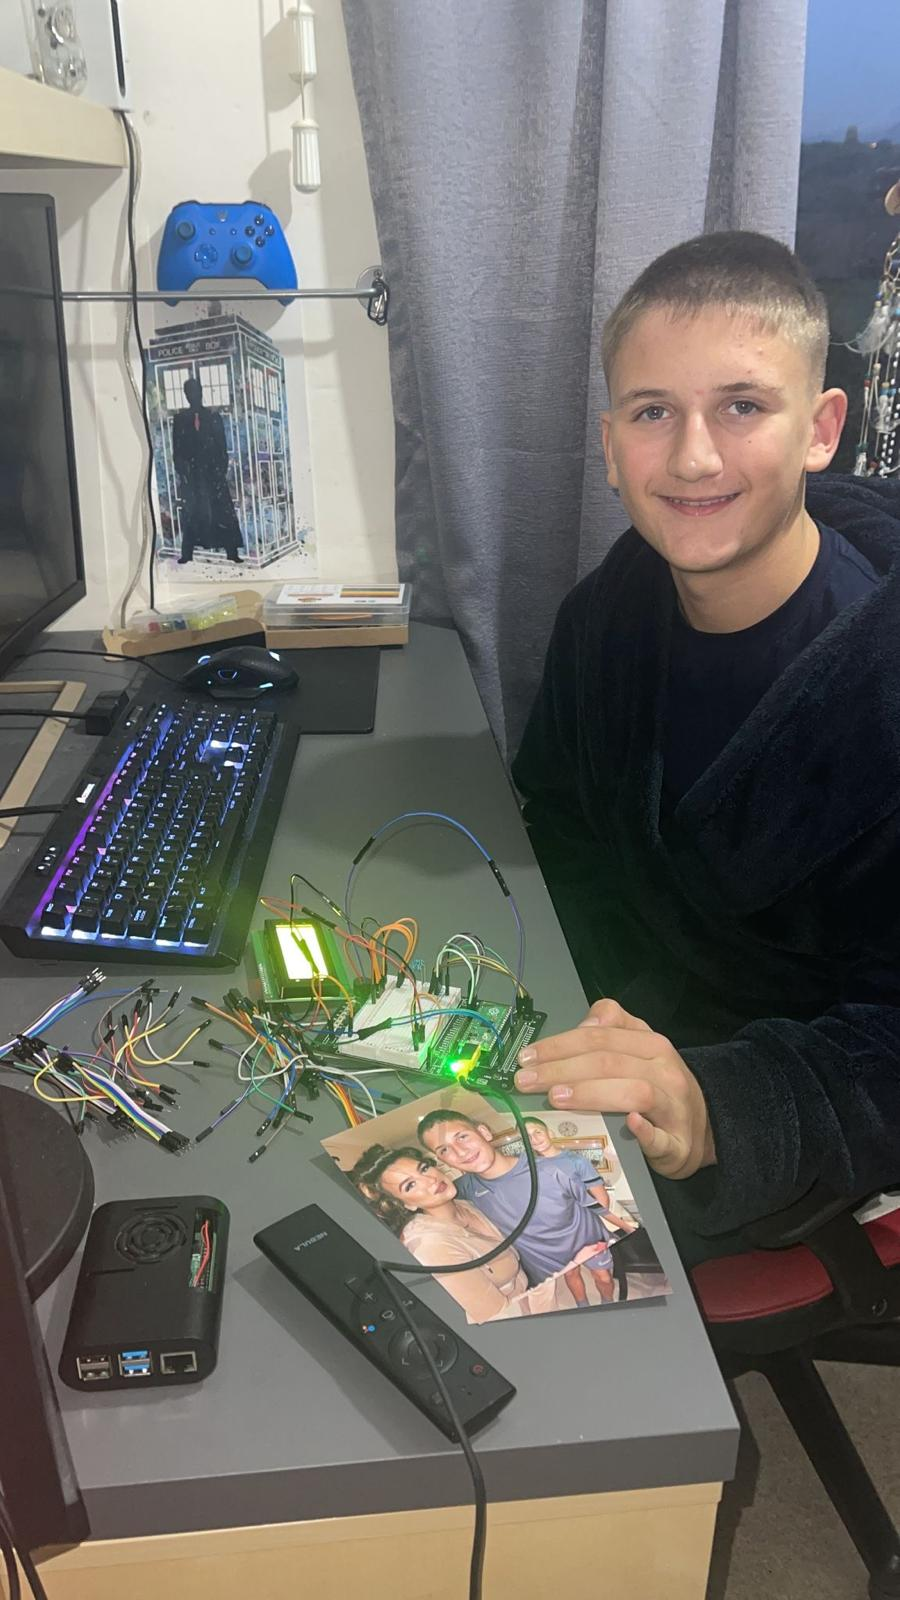
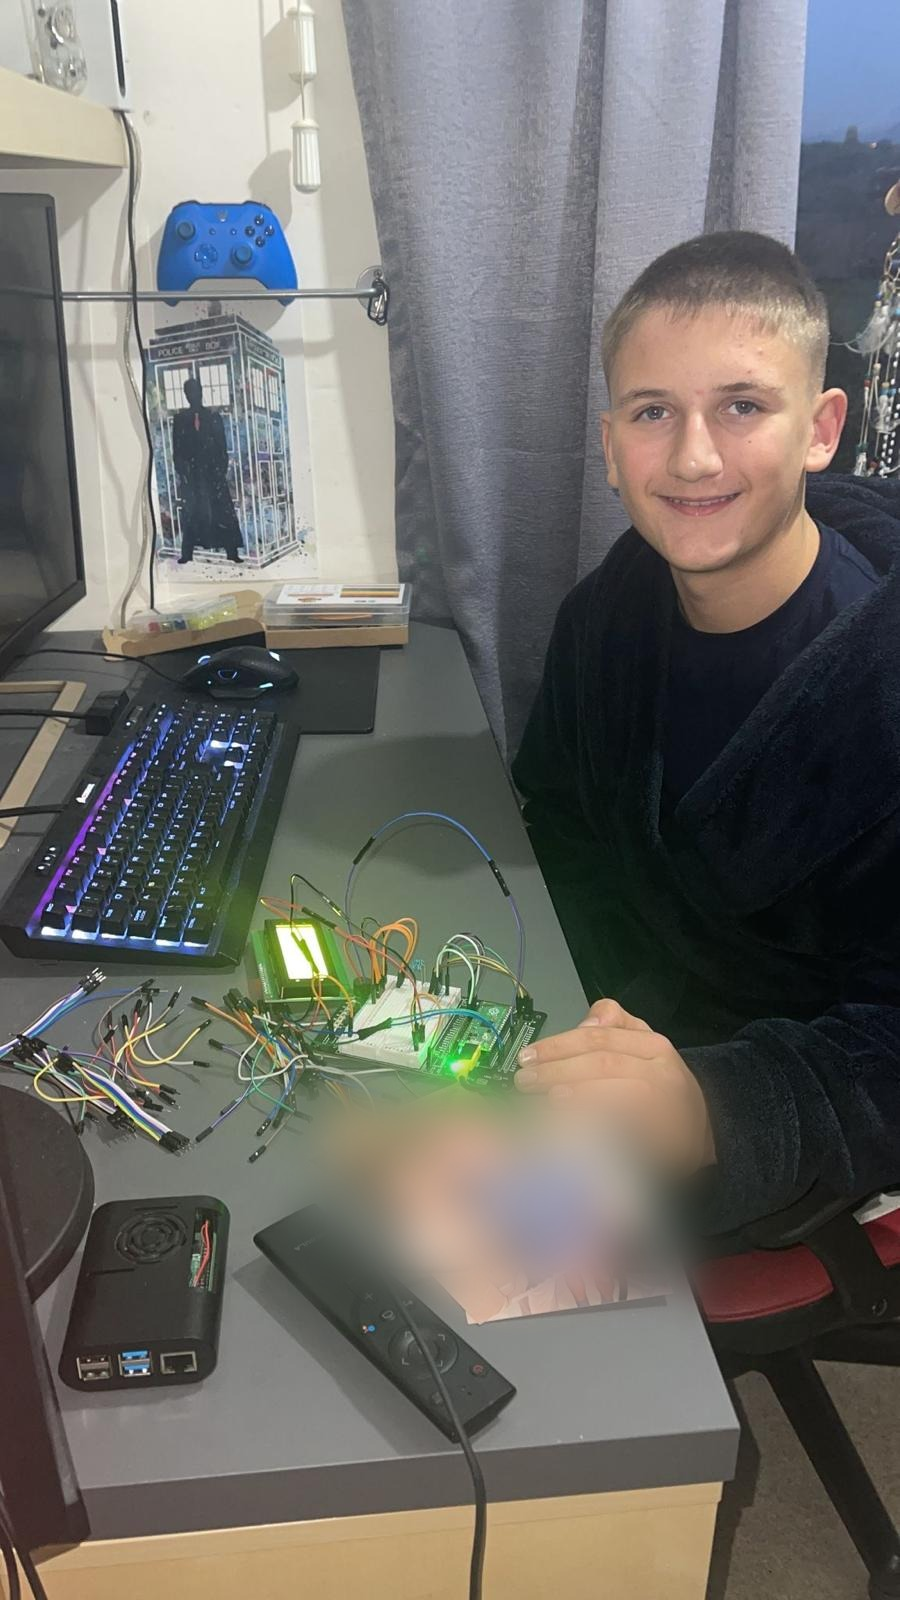
Blur family photo in Roboscan shot, rewrite PC Building description
The third Roboscan photo had a printed photo of me and my sister on
the desk - applied a soft feathered blur over it so it's not legible
but the shot isn't disrupted otherwise.

Also rewrote the PC Building side-project description to be about
locating and repairing faulty parts and upgrading with fresh internals,
and updated the matching Slovak translation to stay in sync.

Changed region(s): [[0.3422, 0.6562, 0.8089, 0.8438]]

diff --git a/src/i18n/sk.ts b/src/i18n/sk.ts
@@ -135,7 +135,7 @@ export const sk = {
       'pc-building': {
         title: 'Stavba počítačov',
         description:
-          'Staviam si vlastné počítače s vodným chladením, od holej skrinky až po plne podsvietené zostavy.',
+          'Vyhľadávam a opravujem chybné súčiastky v počítačoch a inovujem ich novým vnútrom - stavám a chladím vodou kompletné zostavy, od holej skrinky až po hotové RGB zostavy.',
         captions: ['Uprostred stavby: chladič, ventilátory a uloženie káblov.', 'Hotový podsvietený počítač na stole.'],
       },
       'hardware-repair': {

diff --git a/src/components/sections/Journey.tsx b/src/components/sections/Journey.tsx
@@ -67,7 +67,7 @@ const sideProjects: SideProject[] = [
   {
     id: 'pc-building',
     title: 'PC Building',
-    description: 'Building and watercooling my own PCs, from bare frames to full RGB rigs.',
+    description: 'Locating and repairing faulty parts in PCs, then upgrading them with fresh internals - building and watercooling full rigs from bare frames to finished RGB builds.',
     icon: <FaFan aria-hidden="true" />,
     photos: [
       { src: pcBuild1Img, caption: 'Mid-build: radiator, fans, and cable management.' },
